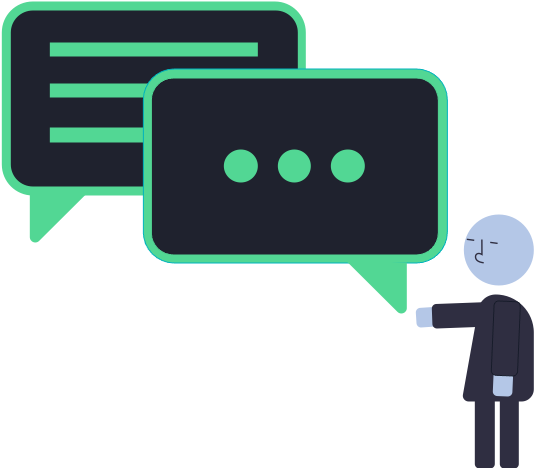
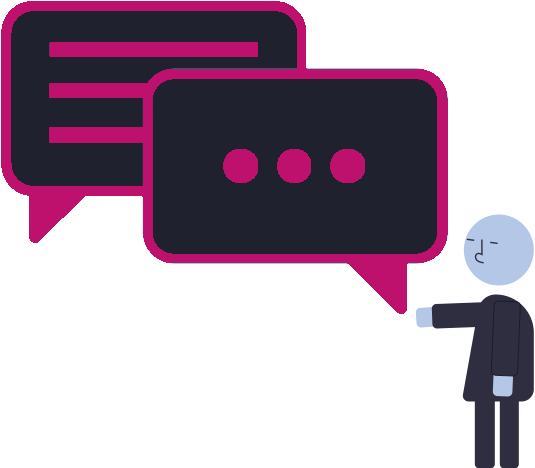
updated

Changed region(s): [[0.0, 0.0, 0.8374, 0.688], [0.5084, 0.2991, 0.6879, 0.3889], [0.4187, 0.2991, 0.4785, 0.3889]]

diff --git a/public/stylesheets/style.css b/public/stylesheets/style.css
@@ -12,10 +12,10 @@
   --secondary: #11141f;
   --tertiary: #1f222e;
   --dark: #0e0e12;
-  --green: #52d794;
-  --blue: #00b3bd;
+  --violet: #b772e6;
+  --pink: #bd0058;
   --light: #fff;
-  --red: indianred;
+  --red: #b90000;
 }
 
 /* common global styles */
@@ -33,7 +33,7 @@ body {
 
 html {
   font-family: Arial, Helvetica, sans-serif;
-  background: linear-gradient(to right, var(--green) 0%, var(--blue) 100%);
+  background: linear-gradient(to right, var(--violet) 0%, var(--pink) 100%);
   font-size: 10px;
 }
 
@@ -78,7 +78,7 @@ input.error {
 input[type="submit"] {
   margin: 2rem auto;
   width: 200px;
-  background: linear-gradient(to right, var(--green), var(--blue));
+  background: linear-gradient(to right, var(--violet), var(--pink));
   cursor: pointer;
   font-weight: 600;
   transition: transform 0.1s ease-in-out;
@@ -113,7 +113,7 @@ input[type="submit"]:active {
   border: 3px solid;
   border-image-slice: 1;
   border-width: 3px;
-  border-image-source: linear-gradient(to left, var(--green), var(--blue));
+  border-image-source: linear-gradient(to left, var(--violet), var(--pink));
 }
 
 .modal .modal-title {
@@ -272,7 +272,7 @@ input[type="submit"]:active {
   width: 40px;
   height: 40px;
   border-radius: 100%;
-  border: 2px solid var(--blue);
+  border: 2px solid var(--pink);
 }
 
 .title-text {
@@ -405,14 +405,14 @@ input[type="submit"]:active {
 }
 
 .you-message .message-text {
-  background: var(--green);
+  background: var(--violet);
   color: var(--dark);
   border: 2px solid var(--dark);
   border-radius: 14px 14px 0 14px;
 }
 
 .other-message .message-text {
-  background: var(--blue);
+  background: var(--pink);
   color: #111;
   border: 2px solid var(--dark);
   border-radius: 14px 14px 0 14px;
@@ -602,7 +602,7 @@ input[type="submit"]:active {
 }
 
 #users-table thead tr {
-  background-color: var(--green);
+  background-color: var(--violet);
   color: var(--primary);
   text-align: left;
 }
@@ -633,7 +633,7 @@ input[type="submit"]:active {
   width: 40px;
   height: 40px;
   border-radius: 100%;
-  border: 2px solid var(--blue);
+  border: 2px solid var(--pink);
 }
 
 #users-table tbody .name span {
@@ -645,7 +645,7 @@ input[type="submit"]:active {
 }
 
 #users-table tbody tr:last-of-type {
-  border-bottom: 2px solid var(--green);
+  border-bottom: 2px solid var(--violet);
 }
 
 #users-table .manage img {
@@ -692,8 +692,8 @@ input[type="submit"]:active {
   font-size: 14px !important;
   background: -webkit-linear-gradient(
     to right,
-    var(--green) 0%,
-    var(--blue) 100%
+    var(--violet) 0%,
+    var(--pink) 100%
   );
-  background: linear-gradient(to right, var(--green) 0%, var(--blue) 100%);
+  background: linear-gradient(to right, var(--violet) 0%, var(--pink) 100%);
 }
